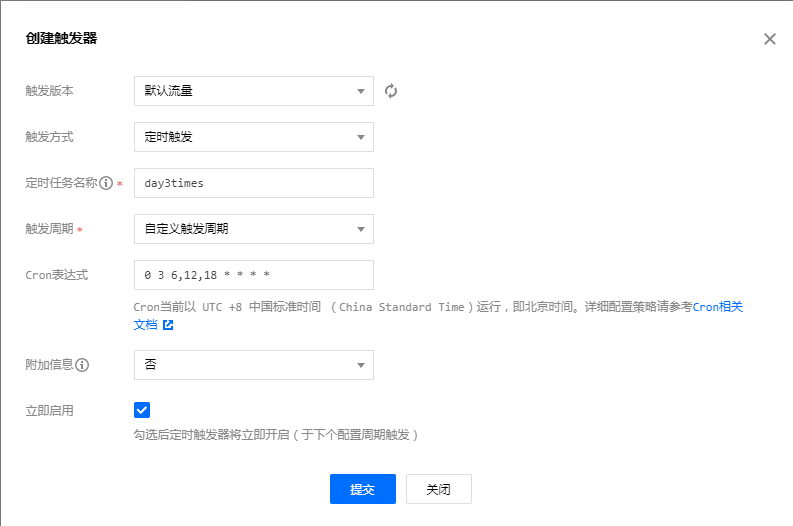
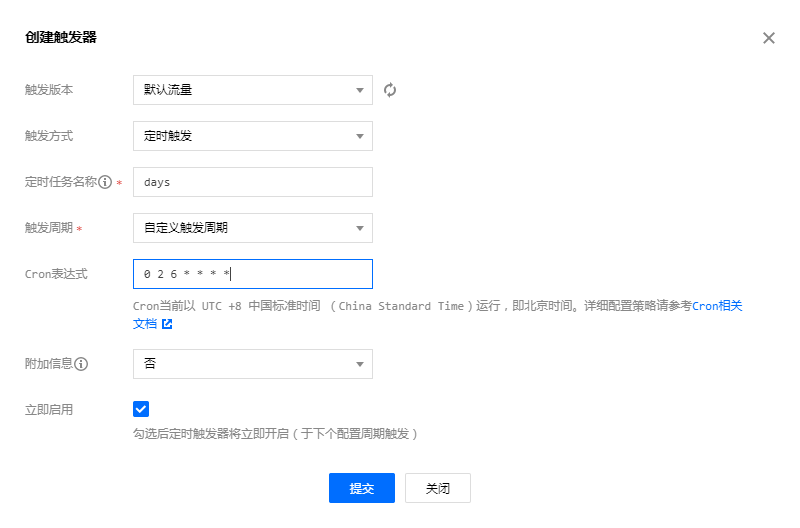
doc: update images and trigger

diff --git a/main.py b/main.py
@@ -123,7 +123,7 @@ def main_handler(event, context):
     login(session, student_id, password)
     message = submit(session)
 
-    message = get_hour_message() + '检-' + message
+    message = '疫情通丨' + message
 
     server_jiang_push(SCKEY, message)
 

diff --git a/README.md b/README.md
@@ -47,10 +47,10 @@
 填入信息，名称随意。Cron 填入
 
 ```sh
-0 3 6,12,18 * * * *
+0 2 6 * * * *
 ```
 
-意为每天 6:03:00 12:03:00 18:03:00 定时触发
+意为每天 6:02:00 定时触发
 
 完成
 
